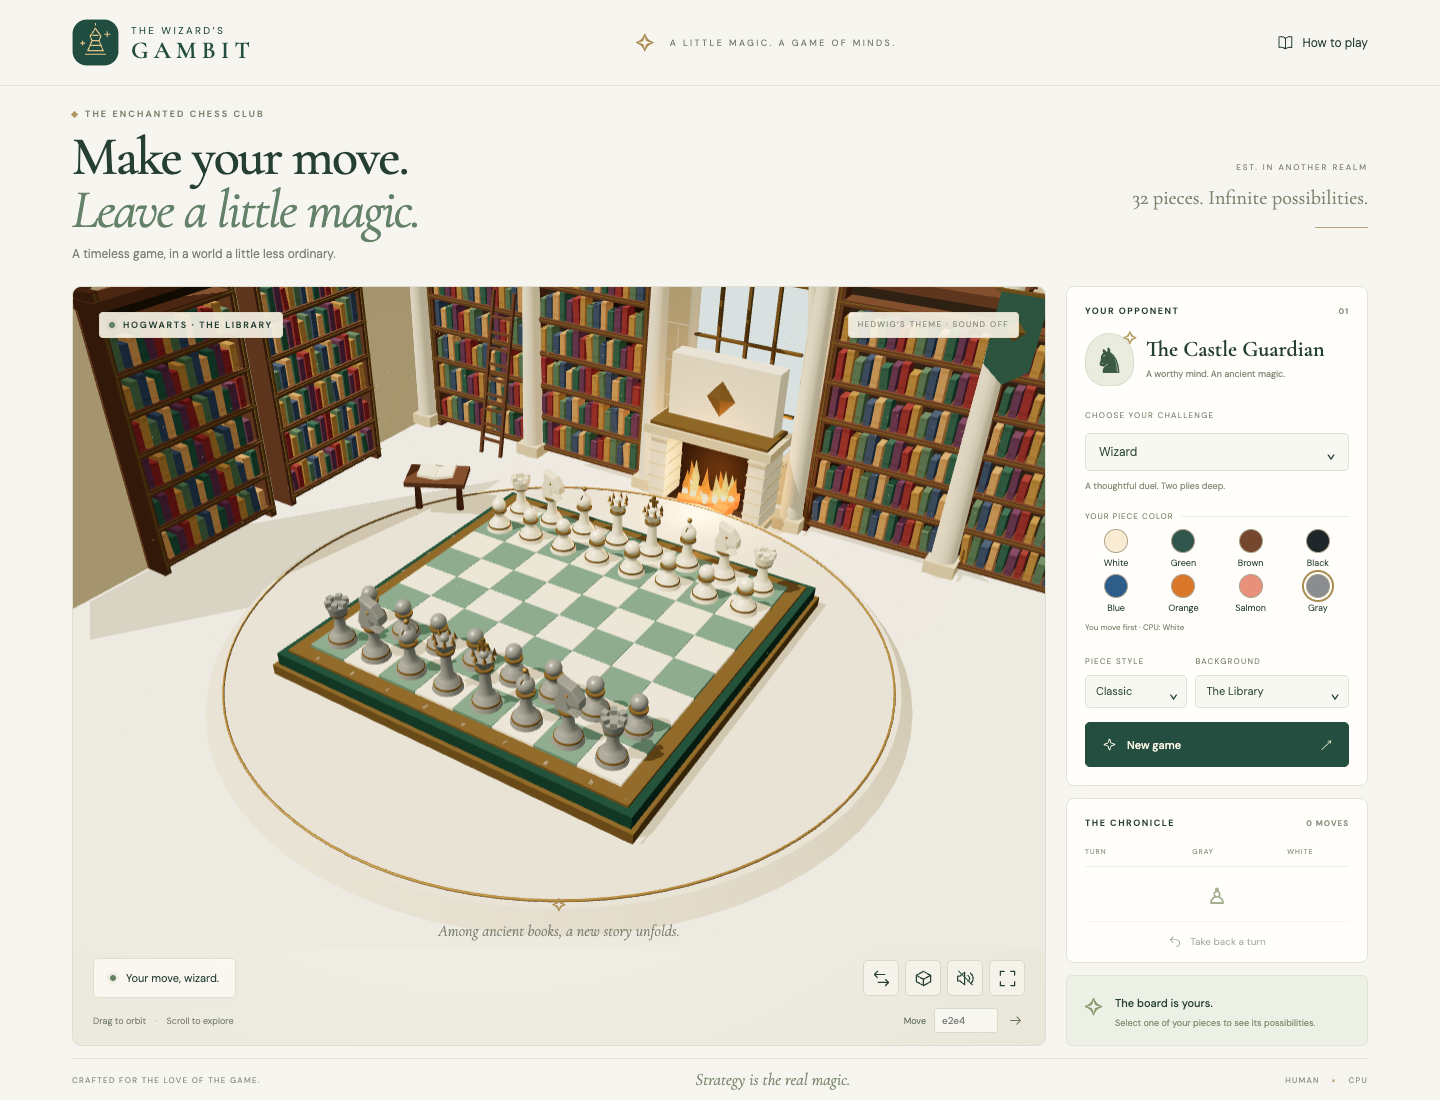
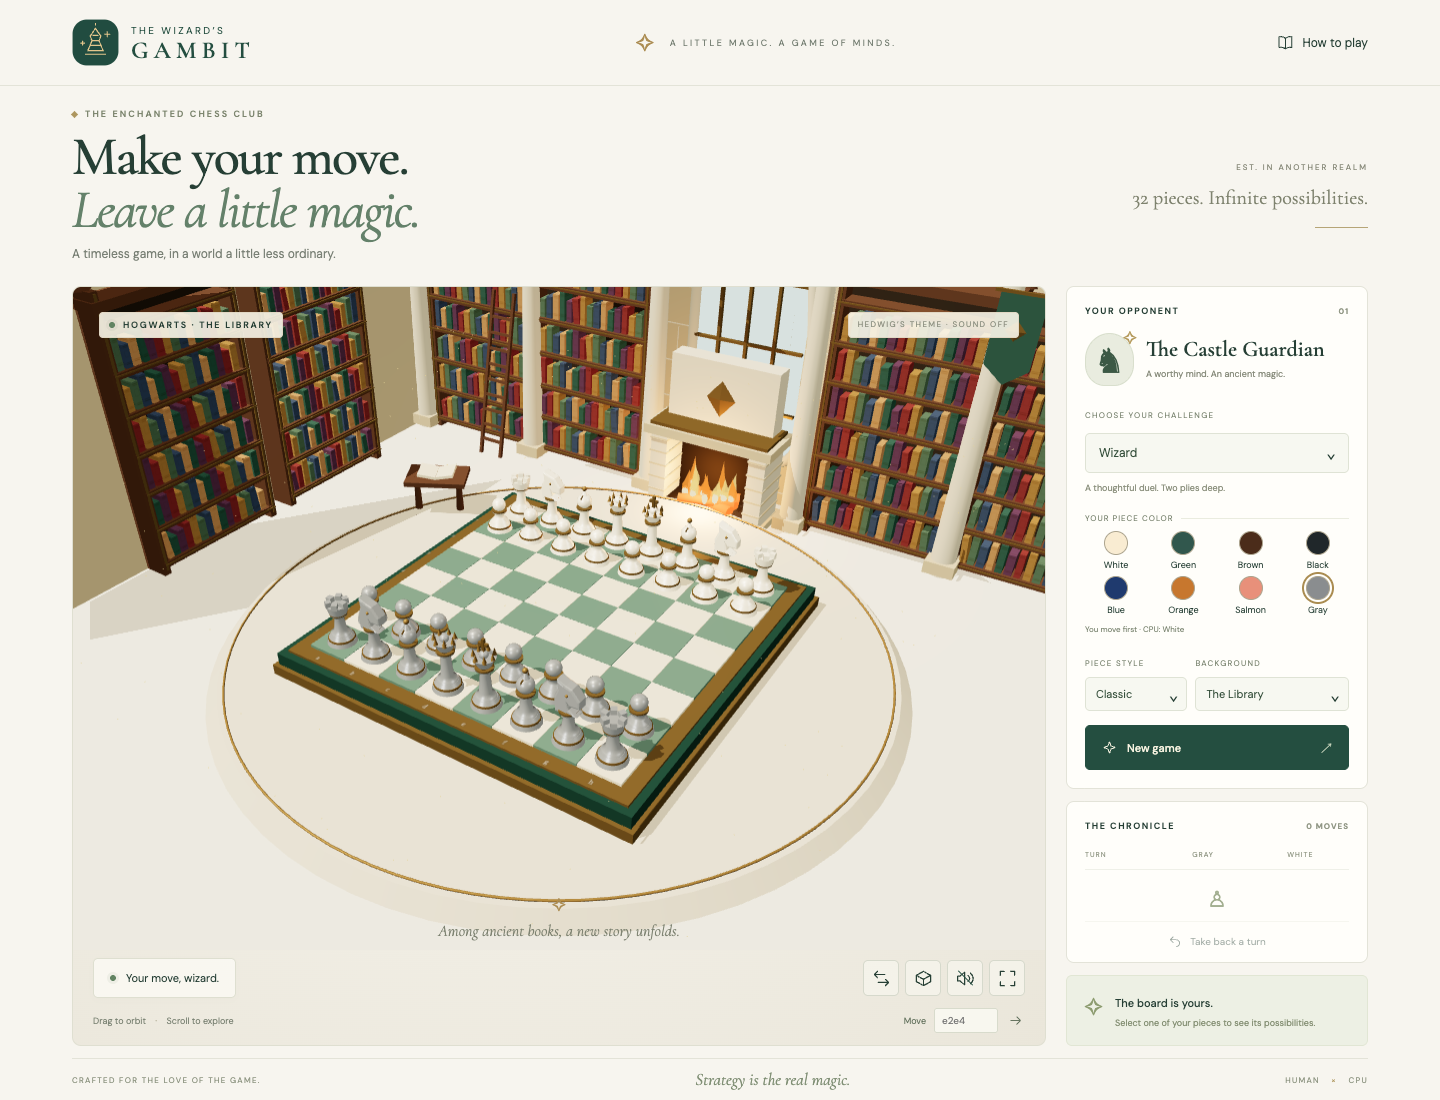
.

diff --git a/pocs/chess-astra-6-poc/tests/game.spec.ts b/pocs/chess-astra-6-poc/tests/game.spec.ts
@@ -1,4 +1,4 @@
-import { test, expect, type Page } from '@playwright/test';
+import { test, expect, devices, type Page } from '@playwright/test';
 
 async function move(page: Page, notation: string) {
   const input = page.getByRole('textbox', { name: 'Move notation' });
@@ -384,4 +384,77 @@ test('the fireplace crackles only while sound is on in the library', async ({ pa
   await expect.poll(playing).toBe(1);
   await page.getByRole('button', { name: 'Mute library music and sound' }).click();
   await expect.poll(playing).toBe(0);
+});
+
+async function touch(page: Page, path: { x: number; y: number }[]) {
+  const cdp = await page.context().newCDPSession(page);
+  await cdp.send('Input.dispatchTouchEvent', { type: 'touchStart', touchPoints: [path[0]] });
+  for (const point of path.slice(1)) await cdp.send('Input.dispatchTouchEvent', { type: 'touchMove', touchPoints: [point] });
+  await cdp.send('Input.dispatchTouchEvent', { type: 'touchEnd', touchPoints: [] });
+}
+
+async function overheadSquare(page: Page, file: number, rank: number) {
+  const rect = (await page.locator('#scene canvas').boundingBox())!;
+  const zoom = Math.min(Math.min(1.45, Math.max(1, 560 / rect.height)), rect.width / rect.height / 1.05);
+  const scale = rect.height * zoom / (2 * Math.tan(37 * Math.PI / 360) * 22.78);
+  return { x: rect.x + rect.width / 2 + (file - 3.5) * scale, y: rect.y + rect.height / 2 + (3.5 - rank) * scale };
+}
+
+test.describe('on a phone browser', () => {
+  const { defaultBrowserType, ...iPhone } = devices['iPhone 13'];
+  test.use(iPhone);
+
+  test('the board is big enough to tap, taps survive finger jitter, and a swipe orbits instead of moving', async ({ page }) => {
+    await page.goto('/');
+    const canvas = (await page.locator('#scene canvas').boundingBox())!;
+    expect(canvas.height / page.viewportSize()!.height, 'the board must dominate a phone screen so squares are tappable').toBeGreaterThan(0.36);
+    await page.getByRole('button', { name: 'Switch to overhead view' }).tap();
+    const e2 = await overheadSquare(page, 4, 1);
+    await touch(page, [e2, { x: e2.x + 7, y: e2.y + 7 }]);
+    await expect(page.locator('#status-title'), 'a finger never lands perfectly still').toHaveText('Pawn on e2.');
+    await touch(page, [await overheadSquare(page, 4, 3)]);
+    await expect(page.locator('#move-count')).toHaveText('2 MOVES', { timeout: 15000 });
+    const d2 = await overheadSquare(page, 3, 1);
+    await touch(page, [d2, { x: d2.x + 20, y: d2.y }, { x: d2.x + 45, y: d2.y }]);
+    await expect(page.locator('#status-title'), 'orbiting the camera must not select a piece').toHaveText('The board is yours.');
+    await expect(page.locator('#move-count')).toHaveText('2 MOVES');
+  });
+
+  test('controls are thumb-sized, never trigger iOS focus zoom, and every setting is reachable', async ({ page }) => {
+    await page.goto('/');
+    const sizes = await page.evaluate(() => [...document.querySelectorAll<HTMLElement>('input:not([type=radio]), select')].map(element => parseFloat(getComputedStyle(element).fontSize)));
+    expect(Math.min(...sizes), 'iOS Safari zooms the page when a field under 16px gets focus').toBeGreaterThanOrEqual(16);
+    for (const button of await page.locator('.camera-actions button').all()) expect((await button.boundingBox())!.width).toBeGreaterThanOrEqual(36);
+    await expect(page.locator('.hint-touch')).toBeVisible();
+    await expect(page.locator('.hint-mouse')).toBeHidden();
+    await page.getByRole('radio', { name: 'Orange', exact: true }).check();
+    await page.getByLabel('PIECE STYLE').selectOption('steel');
+    await page.getByLabel('BACKGROUND').selectOption('office');
+    await expect(page.locator('#room-name')).toHaveText('HOGWARTS · DUMBLEDORE’S OFFICE');
+    await page.locator('#new-game').scrollIntoViewIfNeeded();
+    await expect(page.locator('#new-game')).toBeInViewport();
+    expect(await page.evaluate(() => document.documentElement.scrollHeight <= innerHeight && document.documentElement.scrollWidth <= innerWidth)).toBe(true);
+    await page.locator('.match-card').evaluate(card => { card.scrollTop = 0; });
+    await page.screenshot({ path: 'printscreens/phone-portrait.png' });
+  });
+});
+
+test.describe('on a phone held sideways', () => {
+  const { defaultBrowserType, ...iPhone } = devices['iPhone 13 landscape'];
+  test.use(iPhone);
+
+  test('the board sits beside the controls instead of shrinking to a strip', async ({ page }) => {
+    await page.goto('/');
+    const arena = (await page.locator('.arena').boundingBox())!;
+    const sidebar = (await page.locator('.sidebar').boundingBox())!;
+    const canvas = (await page.locator('#scene canvas').boundingBox())!;
+    expect(sidebar.x).toBeGreaterThanOrEqual(arena.x + arena.width);
+    expect(canvas.height / page.viewportSize()!.height).toBeGreaterThan(0.6);
+    await expect(page.getByRole('textbox', { name: 'Move notation' })).toBeInViewport();
+    await expect(page.getByRole('button', { name: 'Rotate board' })).toBeInViewport();
+    expect(await page.evaluate(() => document.documentElement.scrollHeight <= innerHeight && document.documentElement.scrollWidth <= innerWidth)).toBe(true);
+    await move(page, 'e4');
+    await expect(page.locator('#move-count')).toHaveText('2 MOVES', { timeout: 15000 });
+    await page.screenshot({ path: 'printscreens/phone-landscape.png' });
+  });
 });

diff --git a/pocs/chess-astra-6-poc/src/main.ts b/pocs/chess-astra-6-poc/src/main.ts
@@ -45,7 +45,7 @@ app.innerHTML = `
           <button class="primary-button" id="result-new-game">${icon('spark')} New game ${icon('arrow')}</button>
         </section>
         <div class="board-toolbar"><div class="turn-pill" id="board-turn"><span class="live-dot"></span> Your move, wizard.</div><div class="camera-actions"><button id="flip" title="Rotate board" aria-label="Rotate board">${icon('flip')}</button><button id="view" title="Switch to overhead view" aria-label="Switch to overhead view">${icon('view')}</button><button id="sound" title="Play library music and sound" aria-label="Play library music and sound" aria-pressed="false">${icon('sound')}<span class="sound-off"></span></button><button id="fullscreen" title="Enter game fullscreen" aria-label="Enter game fullscreen" aria-pressed="false">${icon('fullscreen')}</button></div></div>
-        <div class="board-bottom"><span>Drag to orbit <b>·</b> Scroll to explore</span><form id="move-form"><label for="move-input">Move</label><input id="move-input" aria-label="Move notation" placeholder="e2e4" autocomplete="off" spellcheck="false" maxlength="8"/><button type="submit" aria-label="Play move">${icon('arrow')}</button></form></div>
+        <div class="board-bottom"><span>Drag to orbit <b>·</b> <i class="hint-mouse">Scroll to explore</i><i class="hint-touch">Pinch to zoom</i></span><form id="move-form"><label for="move-input">Move</label><input id="move-input" aria-label="Move notation" placeholder="e2e4" autocomplete="off" spellcheck="false" maxlength="8"/><button type="submit" aria-label="Play move">${icon('arrow')}</button></form></div>
       </section>
       <aside class="sidebar">
         <section class="match-card"><div class="section-label">YOUR OPPONENT <span>01</span></div><div class="opponent"><div class="avatar">♞<span>✧</span></div><div><h2>The Castle Guardian</h2><p>A worthy mind. An ancient magic.</p></div></div><label class="field-label" for="difficulty">CHOOSE YOUR CHALLENGE</label><div class="select-wrap"><select id="difficulty"><option value="apprentice">Apprentice</option><option value="wizard" selected>Wizard</option><option value="grandmaster">Grandmaster</option></select><span>⌄</span></div><p class="difficulty-note" id="difficulty-note">A thoughtful duel. Two moves deep.</p><fieldset class="piece-colors"><legend>YOUR PIECE COLOR</legend><div class="color-options">${Object.entries(pieceColors).map(([color, hex]) => `<label class="color-option"><input type="radio" name="piece-color" value="${color}" ${color === 'white' ? 'checked' : ''}/><span class="color-swatch" style="--swatch:${hex}"></span><span>${color[0].toUpperCase() + color.slice(1)}</span></label>`).join('')}</div><p>You move first · CPU: <span id="cpu-color">Green</span></p></fieldset><div class="look-options"><div><label class="field-label" for="piece-style">PIECE STYLE</label><div class="select-wrap"><select id="piece-style">${options(pieceStyles)}</select><span>⌄</span></div></div><div><label class="field-label" for="background">BACKGROUND</label><div class="select-wrap"><select id="background">${options(backgrounds)}</select><span>⌄</span></div></div></div><button class="primary-button" id="new-game">${icon('spark')} New game <span>↗</span></button></section>

diff --git a/pocs/chess-astra-6-poc/src/scene.ts b/pocs/chess-astra-6-poc/src/scene.ts
@@ -6,7 +6,7 @@ import { gold, jade, stone, mesh } from './parts';
 import { buildLibrary, buildGreatHall, buildOffice, type Background } from './rooms';
 import { applyPieceStyle, type PieceStyle } from './pieceStyles';
 
-export const pieceColors = { white: '#f9ecd2', green: '#31574d', brown: '#75472d', black: '#20272a', blue: '#2f5d8a', orange: '#d9772b', salmon: '#e8907a', gray: '#8a8d8f' } as const;
+export const pieceColors = { white: '#f9ecd2', green: '#31574d', brown: '#4b2c1a', black: '#20272a', blue: '#1f3a6e', orange: '#c7772e', salmon: '#e8907a', gray: '#8a8d8f' } as const;
 export type PieceColor = keyof typeof pieceColors;
 
 function cylinder(group: THREE.Group, top: number, bottom: number, height: number, y: number, material: THREE.Material) {
@@ -97,7 +97,7 @@ export class ChessScene {
 
   constructor(private container: HTMLElement, onSquare: (square: Square) => void) {
     this.renderer = new THREE.WebGLRenderer({ antialias: true, alpha: true });
-    this.renderer.setPixelRatio(Math.min(devicePixelRatio, 2));
+    this.renderer.setPixelRatio(Math.min(devicePixelRatio, matchMedia('(pointer: coarse)').matches ? 1.5 : 2));
     this.renderer.shadowMap.enabled = true;
     this.renderer.shadowMap.type = THREE.PCFShadowMap;
     this.renderer.setClearColor('#eee9df', 0);
@@ -158,7 +158,7 @@ export class ChessScene {
     let down = { x: 0, y: 0 };
     this.renderer.domElement.addEventListener('pointerdown', e => { down = { x: e.clientX, y: e.clientY }; });
     this.renderer.domElement.addEventListener('pointerup', e => {
-      if (Math.hypot(e.clientX - down.x, e.clientY - down.y) > 6) return;
+      if (Math.hypot(e.clientX - down.x, e.clientY - down.y) > (e.pointerType === 'touch' ? 14 : 6)) return;
       const rect = this.renderer.domElement.getBoundingClientRect();
       this.pointer.set((e.clientX - rect.left) / rect.width * 2 - 1, -(e.clientY - rect.top) / rect.height * 2 + 1);
       this.raycaster.setFromCamera(this.pointer, this.camera);
@@ -301,7 +301,7 @@ export class ChessScene {
   private resize() {
     const { width, height } = this.container.getBoundingClientRect();
     this.camera.aspect = width / height;
-    this.camera.zoom = Math.min(1, width / height / 1.05);
+    this.camera.zoom = Math.min(Math.min(1.45, Math.max(1, 560 / height)), width / height / 1.05);
     this.camera.updateProjectionMatrix();
     this.renderer.setSize(width, height);
   }

diff --git a/pocs/chess-astra-6-poc/src/style.css b/pocs/chess-astra-6-poc/src/style.css
@@ -71,8 +71,10 @@ button:not(:disabled):active {
   transform:translateY(1px)
 }
 
-button:not(:disabled):hover {
-  filter:brightness(.96)
+@media(hover:hover) {
+  button:not(:disabled):hover {
+    filter:brightness(.96)
+  }
 }
 
 .masthead {
@@ -503,6 +505,14 @@ p {
   font-weight:400;
   margin:0 7px;
   color:#b2ad96
+}
+
+.board-bottom i {
+  font-style:normal
+}
+
+.hint-touch {
+  display:none
 }
 
 #move-form {
@@ -1270,6 +1280,108 @@ dialog li {
   .brand img {
     width:32px;
     height:32px
+  }
+}
+
+@media(max-width:760px) {
+  .intro,footer,.opponent {
+    display:none
+  }
+  .match-card .field-label {
+    display:block;
+    margin-top:8px
+  }
+  main {
+    padding-top:8px;
+    padding-bottom:8px
+  }
+  .game-layout {
+    grid-template-rows:minmax(250px,1.6fr) minmax(190px,1fr)
+  }
+}
+
+@media(max-width:1000px) and (max-height:500px) and (orientation:landscape) {
+  .masthead {
+    height:40px
+  }
+  .brand img {
+    width:28px;
+    height:28px
+  }
+  main {
+    padding-top:6px;
+    padding-bottom:6px
+  }
+  .game-layout {
+    grid-template-columns:minmax(0,1fr) 230px;
+    grid-template-rows:minmax(0,1fr);
+    gap:8px
+  }
+  .sidebar {
+    grid-template-columns:minmax(0,1fr);
+    grid-template-rows:minmax(0,1.3fr) minmax(0,1fr) auto;
+    gap:6px
+  }
+  .status-card {
+    grid-column:auto
+  }
+  .arena {
+    display:grid;
+    grid-template-columns:minmax(0,1fr) auto;
+    grid-template-rows:minmax(0,1fr) auto
+  }
+  #scene {
+    grid-column:1/-1
+  }
+  .arena-top {
+    top:8px;
+    left:8px
+  }
+  .board-toolbar {
+    margin:0;
+    padding:6px 8px
+  }
+  .board-bottom {
+    padding:6px 8px
+  }
+  .turn-pill,.board-bottom>span,.history-head {
+    display:none
+  }
+  .sidebar {
+    grid-template-rows:minmax(0,1fr) minmax(0,1fr) auto
+  }
+}
+
+@media(pointer:coarse) {
+  html {
+    touch-action:manipulation
+  }
+  #move-input,.select-wrap select {
+    font-size:16px
+  }
+  #move-input {
+    width:76px;
+    height:36px
+  }
+  #move-form button {
+    width:36px;
+    height:36px;
+    justify-content:center;
+    align-items:center
+  }
+  .camera-actions button {
+    width:38px;
+    height:38px
+  }
+  .color-swatch {
+    width:26px;
+    height:26px
+  }
+  .hint-mouse {
+    display:none
+  }
+  .hint-touch {
+    display:inline
   }
 }
 

diff --git a/pocs/chess-astra-6-poc/src/pieceStyles.ts b/pocs/chess-astra-6-poc/src/pieceStyles.ts
@@ -51,7 +51,7 @@ function map(name: keyof typeof painters) {
 }
 
 const looks: Record<PieceStyle, () => THREE.MeshPhysicalMaterialParameters> = {
-  classic: () => ({ metalness: 0.25, roughness: 0.3 }),
+  classic: () => ({ metalness: 0.25, roughness: 0.32, clearcoat: 0.6, clearcoatRoughness: 0.2, envMapIntensity: 0.22 }),
   marble: () => ({ map: map('marble'), roughness: 0.14, clearcoat: 0.8, envMapIntensity: 0.6 }),
   wood: () => ({ map: map('wood'), roughness: 0.62, clearcoat: 0.2, envMapIntensity: 0.2 }),
   steel: () => ({ metalness: 1, roughness: 0.22, envMapIntensity: 1.3 }),
